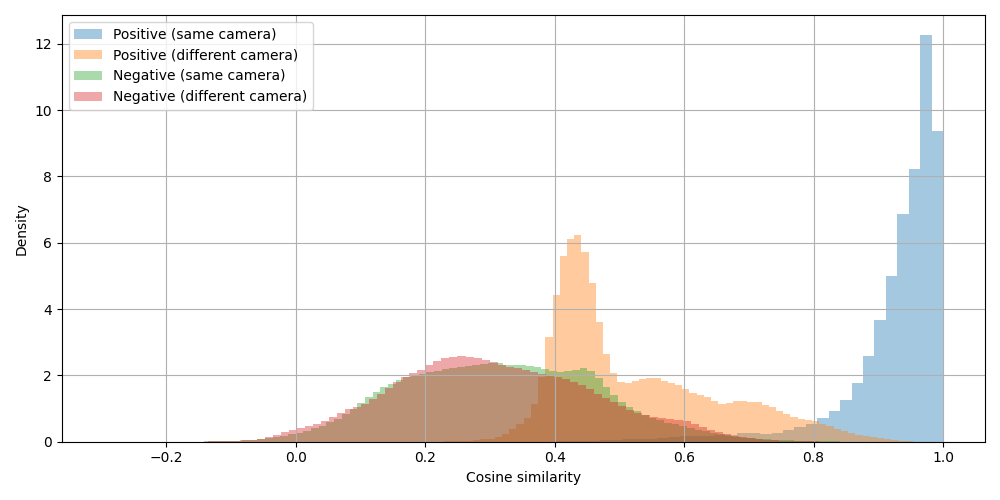
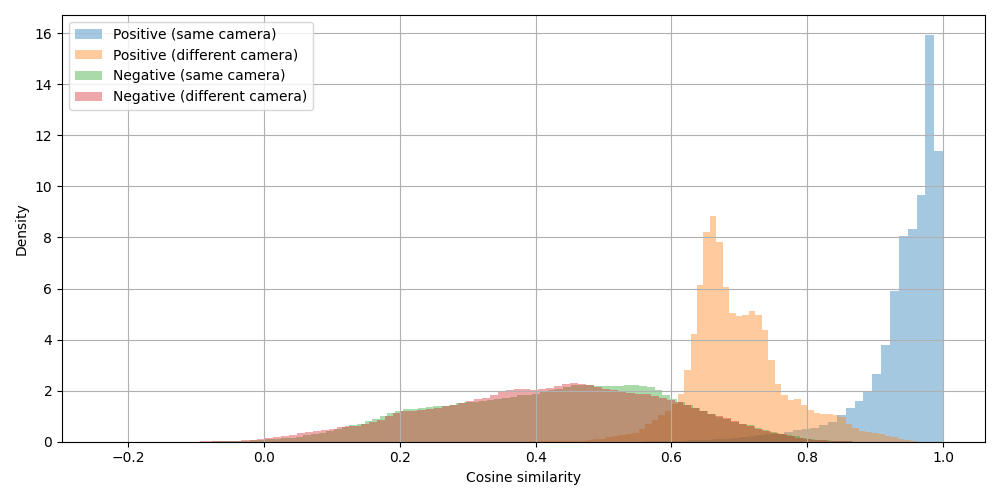
separate heads model for triplet and CE

diff --git a/vehicle_reid_repo2/vehicle_reid/model.py b/vehicle_reid_repo2/vehicle_reid/model.py
@@ -73,6 +73,23 @@ class ClassBlock(nn.Module):
         else:
             x = self.classifier(x)
             return x
+        
+class LinearBlock(nn.Module):
+    def __init__(self, input_dim, linear=512):
+        super(LinearBlock, self).__init__()
+        add_block = []
+        if linear > 0:
+            add_block += [nn.Linear(input_dim, linear)]
+        else:
+            linear = input_dim
+        add_block = nn.Sequential(*add_block)
+        add_block.apply(weights_init_kaiming)
+
+        self.add_block = add_block
+
+    def forward(self, x):
+        ff = self.add_block(x)
+        return ff
 
 # Define the ResNet50-based Model
 class ft_net(nn.Module):
@@ -128,6 +145,73 @@ class ft_net(nn.Module):
         x = x.view(x.size(0), x.size(1))
         x = self.classifier(x)
         return x
+    
+class ft_net2(nn.Module):
+
+    """
+    this version of the ft class splits the head part into 2 separate directions for metric and classifier learning
+    """
+
+    def __init__(self, class_num=751, device="cuda", droprate=0.5, stride=2, circle=False, ibn=False, linear_num=512,
+                 model_subtype="50", mixstyle=True, batch_norm=True, return_pre_bn=False):
+        super(ft_net2, self).__init__()
+        if model_subtype in ("50", "default"):
+            if ibn:
+                model_ft = torch.hub.load(
+                    'XingangPan/IBN-Net', 'resnet50_ibn_a', pretrained=True)
+                #print("PRINT ",device)
+                #model_ft = model_ft.to(torch.device(""device""))
+            else:
+                model_ft = models.resnet50(weights="IMAGENET1K_V2")
+        elif model_subtype == "101":
+            if ibn:
+                model_ft = torch.hub.load("XingangPan/IBN-Net", "resnet101_ibn_a", pretrained=True)
+            else:
+                model_ft = models.resnet101(weights="IMAGENET1K_V2")
+        elif model_subtype == "152":
+            if ibn:
+                raise ValueError("Resnet152 has no IBN variants available.")
+            model_ft = models.resnet152(weights="IMAGENET1K_V2")
+        else:
+            raise ValueError(f"Resnet model subtype: {model_subtype} is invalid, choose from: ['50','101','152'].")
+        
+        # avg pooling to global pooling
+        if stride == 1:
+            model_ft.layer4[0].downsample[0].stride = (1, 1)
+            model_ft.layer4[0].conv2.stride = (1, 1)
+        model_ft.avgpool = nn.AdaptiveAvgPool2d((1, 1))
+        self.model = model_ft
+        self.circle = circle
+        self.classifier = ClassBlock(
+            2048, class_num, droprate, bnorm=batch_norm, linear=linear_num)
+        self.last_layer = LinearBlock(2048, linear=linear_num)
+        self.mixstyle = MixStyle(alpha=0.3) if mixstyle else None
+
+    def forward(self, x):
+        x = self.model.conv1(x)
+        x = self.model.bn1(x)
+        x = self.model.relu(x)
+        x = self.model.maxpool(x)
+        x = self.model.layer1(x)
+        if self.training and self.mixstyle:
+            x = self.mixstyle(x)
+        x = self.model.layer2(x)
+        if self.training and self.mixstyle:
+            x = self.mixstyle(x)
+        x = self.model.layer3(x)
+        x = self.model.layer4(x)
+        x = self.model.avgpool(x)
+        x = x.view(x.size(0), x.size(1))
+        if self.training and self.circle:
+            ff = self.last_layer(x)
+            x = self.classifier(x)
+            return [x, ff]
+        elif not self.training:
+            ff = self.last_layer(x)
+            return ff
+        else:
+            x = self.classifier(x)
+            return x
     
 # Define the classification head from the originally ResNet50-based Model
 class ft_net_head(nn.Module):

diff --git a/misc/load_embeddings_from_gt_into_db.py b/misc/load_embeddings_from_gt_into_db.py
@@ -120,8 +120,8 @@ def main():
                                         gt_path = f"/home/tomass/tomass/data/AIC22_Track1_MTMC_Tracking(1)/train/S01/c00{i}/gt/gt.txt",
                                         cam_id = f"S01c00{i}",
                                         split = "train",
-                                        model_opts_path="/home/tomass/tomass/ReID_pipele/vehicle_reid_repo2/vehicle_reid/model/student_model_knowl_dist_1.2.1/opts.yaml",
-                                        model_ckpt_path="/home/tomass/tomass/ReID_pipele/vehicle_reid_repo2/vehicle_reid/model/student_model_knowl_dist_1.2.1/net_25.pth")
+                                        model_opts_path="/home/tomass/tomass/ReID_pipele/vehicle_reid_repo2/vehicle_reid/model/CE_triplet_split_head/opts.yaml",
+                                        model_ckpt_path="/home/tomass/tomass/ReID_pipele/vehicle_reid_repo2/vehicle_reid/model/CE_triplet_split_head/net_29.pth")
                                         
         embedder.save_dict_to_db(db)
         # except:

diff --git a/vehicle_reid_repo2/vehicle_reid/load_model.py b/vehicle_reid_repo2/vehicle_reid/load_model.py
@@ -7,7 +7,7 @@ import sys
 SCRIPT_DIR = os.path.dirname(os.path.abspath(__file__))
 sys.path.append(SCRIPT_DIR)
 
-from model import ft_net, ft_net_dense, ft_net_hr, ft_net_swin, ft_net_efficient, ft_net_NAS, PCB, MLP, clip_reid_net
+from model import ft_net, ft_net2, ft_net_dense, ft_net_hr, ft_net_swin, ft_net_efficient, ft_net_NAS, PCB, MLP, clip_reid_net
 
 sys.path.remove(SCRIPT_DIR)
 
@@ -40,7 +40,7 @@ def load_weights(model, ckpt_path, remove_classifier=False):
 def create_model(n_classes, kind="resnet", **kwargs):
     """Creates a model of a given kind and number of classes"""
     if kind == "resnet":
-        return ft_net(n_classes, **kwargs)
+        return ft_net2(n_classes, **kwargs)
     elif kind == "densenet":
         return ft_net_dense(n_classes, **kwargs)
     elif kind == "hr":

diff --git a/gt_cam_to_cam_embed_sim.py b/gt_cam_to_cam_embed_sim.py
@@ -336,8 +336,8 @@ if __name__ == "__main__":
         
     else:
         model = load_model_from_opts(
-            "/home/tomass/tomass/ReID_pipele/vehicle_reid_repo2/vehicle_reid/model/CE_triplet_no_batchnorm/opts.yaml",
-            ckpt="/home/tomass/tomass/ReID_pipele/vehicle_reid_repo2/vehicle_reid/model/CE_triplet_no_batchnorm/net_0.pth",
+            "/home/tomass/tomass/ReID_pipele/vehicle_reid_repo2/vehicle_reid/model/CE_triplet_split_head/opts.yaml",
+            ckpt="/home/tomass/tomass/ReID_pipele/vehicle_reid_repo2/vehicle_reid/model/CE_triplet_split_head/net_30.pth",
             remove_classifier=True,
             return_pre_bn=True)
         model.eval()
